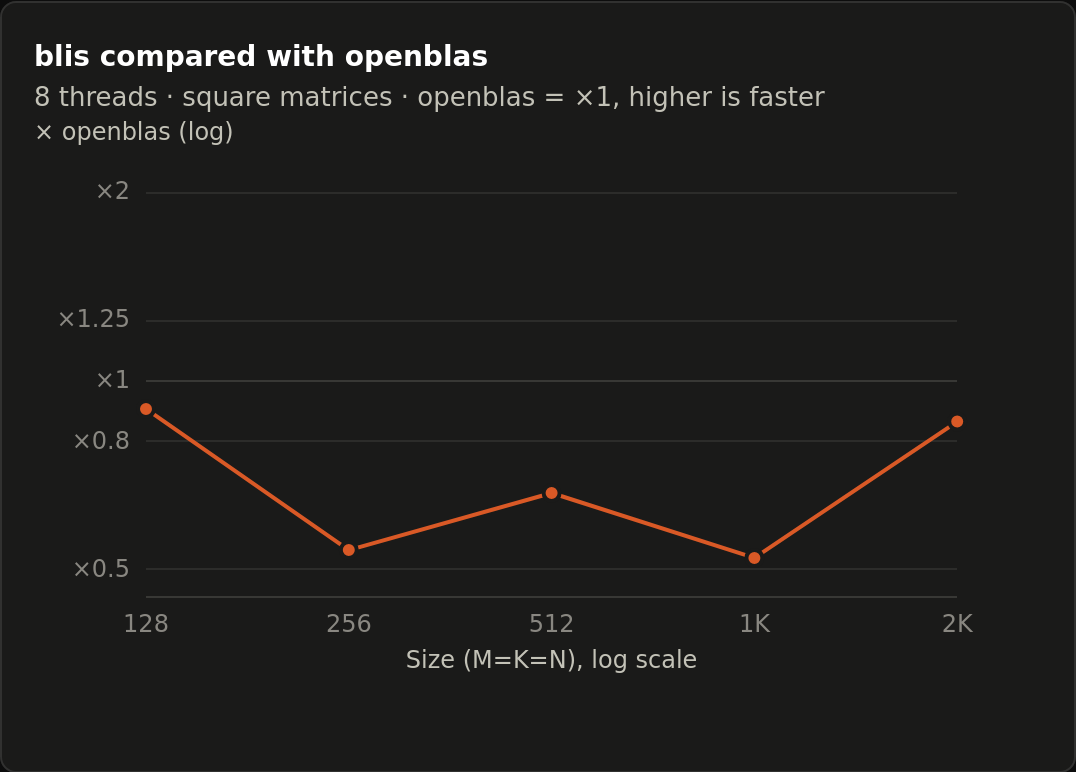
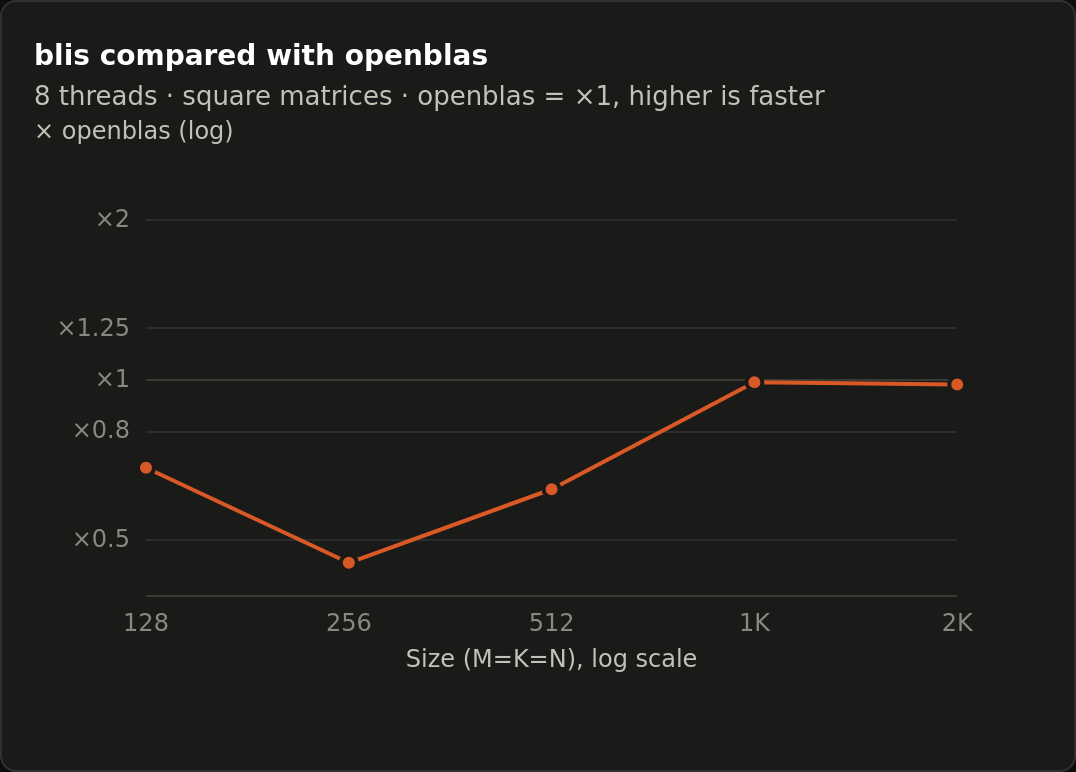
Release 1.8.0: redo the report's images
The report changed look since the images were taken: the Run column
and the kernels in the summary, the band from the fastest sample to the
third quartile, the raw data's median, Q1, Q3, samples and copies
columns. Taken again from 1.8.0, by the README's commands against
OpenBLAS 0.3.26 and BLIS 0.9.0 on the machine the README names, and the
repeated runs from four ddot runs of each. The ratio chart's alt text
gives the range it now shows.

Part of #189.

diff --git a/README.md b/README.md
@@ -93,7 +93,7 @@ firefox report.html
 </picture>
 <picture>
   <source media="(prefers-color-scheme: dark)" srcset="doc/images/dgemm-ratio-dark.png">
-  <img src="doc/images/dgemm-ratio-light.png" alt="dgemm, BLIS relative to OpenBLAS at 8 threads, between x0.5 and x0.9 depending on size" width="49%">
+  <img src="doc/images/dgemm-ratio-light.png" alt="dgemm, BLIS relative to OpenBLAS at 8 threads, between x0.45 and x1 depending on size" width="49%">
 </picture>
 <picture>
   <source media="(prefers-color-scheme: dark)" srcset="doc/images/dgemm-threads-dark.png">
